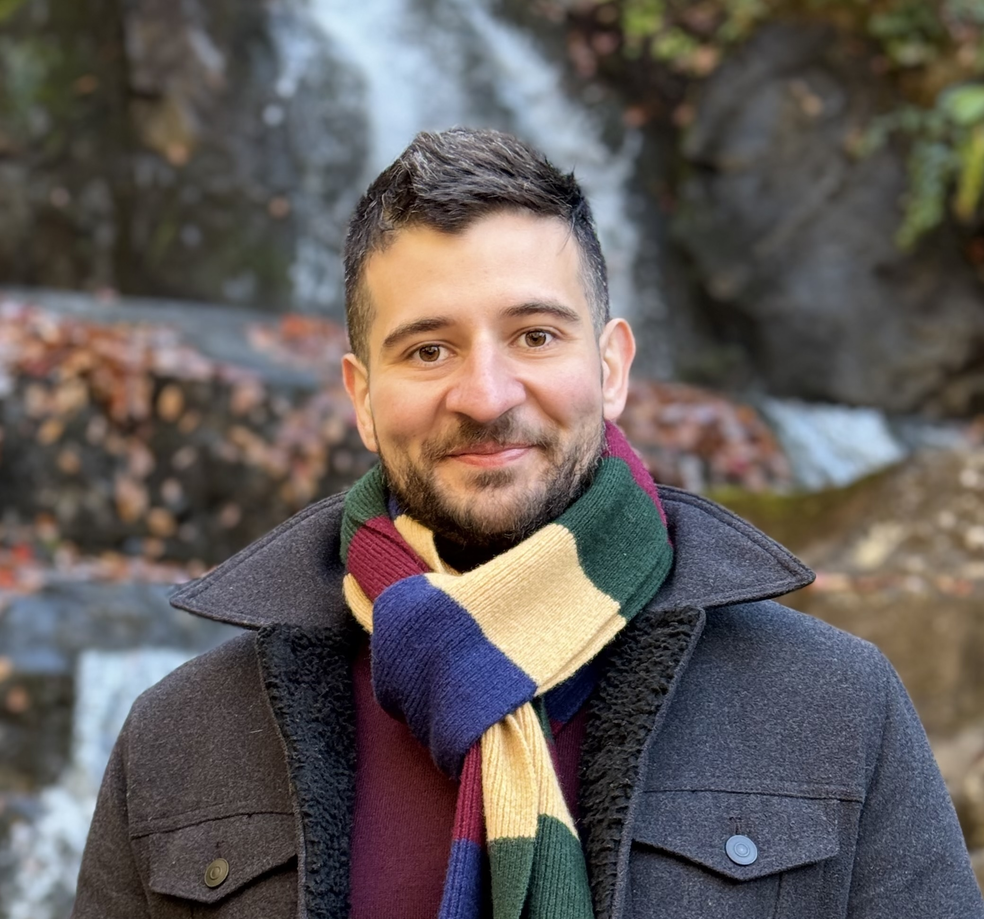
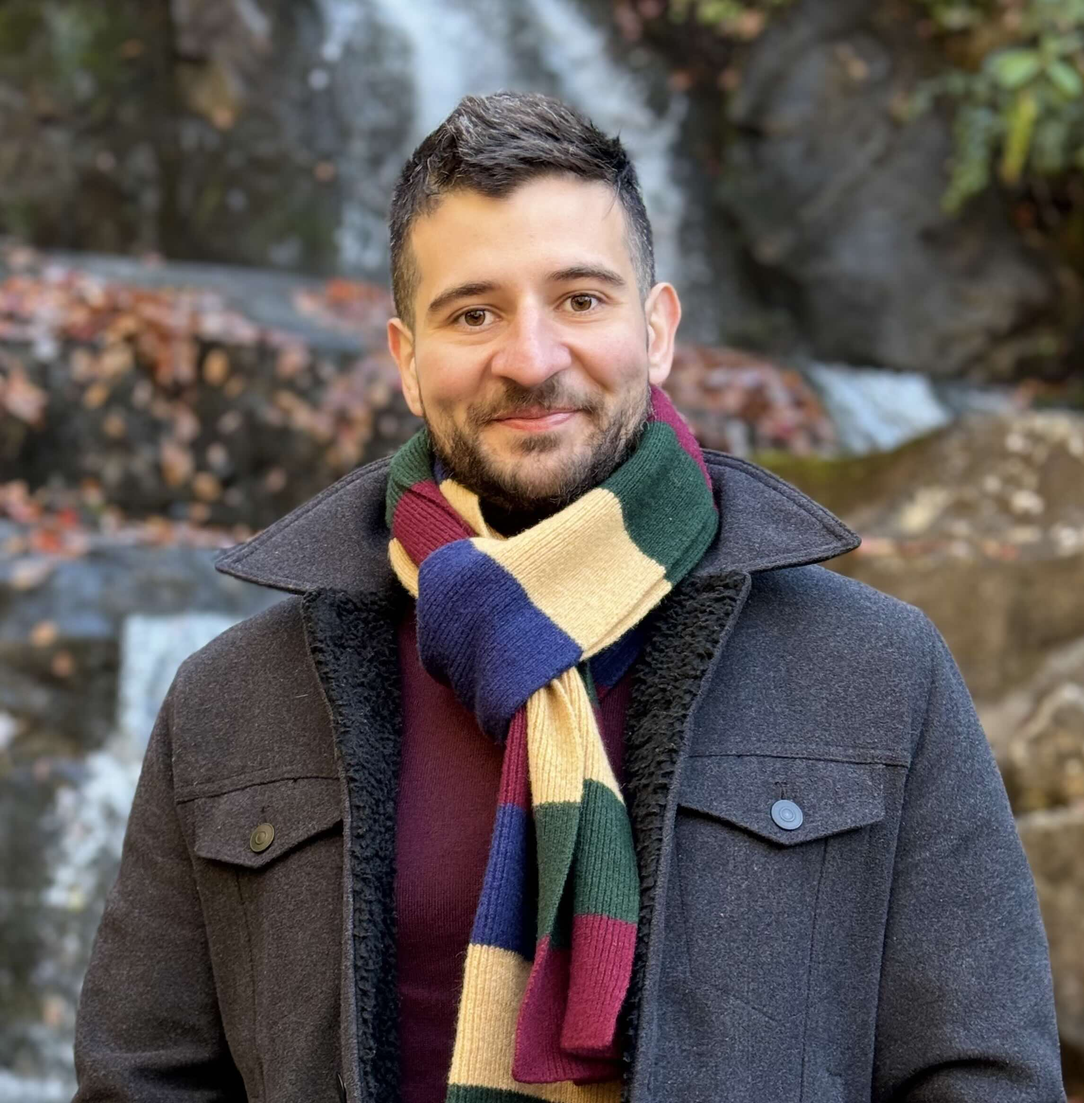
Use smaller size picture

diff --git a/_pages/about.md b/_pages/about.md
@@ -5,7 +5,7 @@ permalink: /
 subtitle:
 profile:
   align: right
-  image: prof.jpeg
+  image: square.jpeg
   address:
 
 news: false  # includes a list of news items
